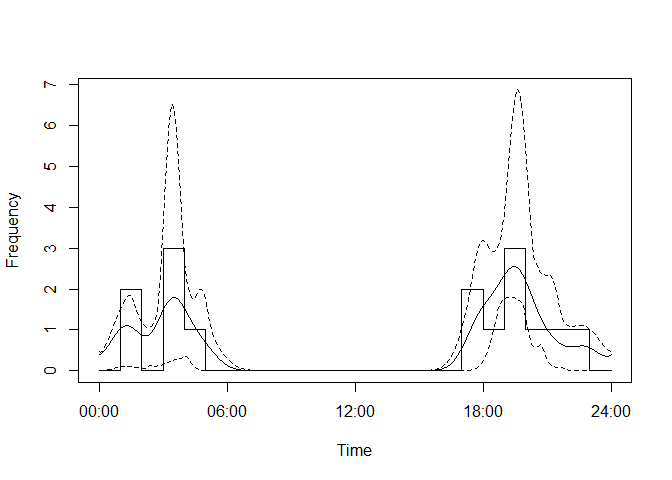
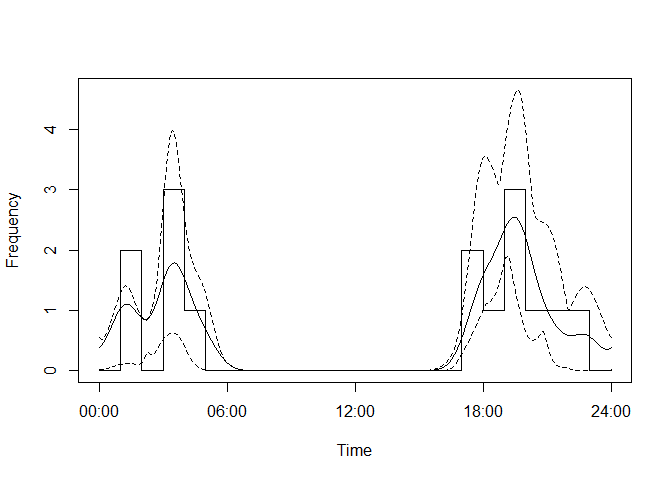
Update Readme to 1. show pak rather than devtools package intall; 2. access package data

diff --git a/README.md b/README.md
@@ -1,8 +1,3 @@
----
-output:
-  pdf_document: default
-  html_document: default
----
 camtrapDensity
 ================
 
@@ -60,8 +55,8 @@ packages when important updates are released from time to time:
 
 ``` r
 install.packages(c("devtools", "tidyverse"))
-devtools::install_github("inbo/camtraptor")
-devtools::install_github("MarcusRowcliffe/camtrapDensity")
+pak::pak("inbo/camtraptor")
+pak::pak("MarcusRowcliffe/camtrapDensity")
 ```
 
 ## Example usage
@@ -116,7 +111,8 @@ occurred.
 plot_deployment_schedule(pkg)
 ```
 
-![](README_files/figure-gfm/unnamed-chunk-5-1.png)<!-- -->
+<div class="plotly html-widget html-fill-item" id="htmlwidget-c1101d63a02aaa91b9e9" style="width:672px;height:480px;"></div>
+<script type="application/json" data-for="htmlwidget-c1101d63a02aaa91b9e9">{"x":{"data":[{"x":[1,1,1,1,3,3,2,2,2,4,4,4,4,4,4,4,4,4,4,4,4],"y":[1506967603,1506967603,1507007824,1507835504,1507806575,1508390591,1508821855,1509045090,1509214658,1507804655,1507841809,1507856923,1508036890,1508183309,1508267880,1508269801,1508642068,1508642068,1508711345,1508733482,1508892657],"text":["deploymentID: 0d620d0e-5da8-42e6-bcf2-56c11fb3d08e<br />timestamp: 2017-10-02 18:06:43","deploymentID: 0d620d0e-5da8-42e6-bcf2-56c11fb3d08e<br />timestamp: 2017-10-02 18:06:43","deploymentID: 0d620d0e-5da8-42e6-bcf2-56c11fb3d08e<br />timestamp: 2017-10-03 05:17:04","deploymentID: 0d620d0e-5da8-42e6-bcf2-56c11fb3d08e<br />timestamp: 2017-10-12 19:11:44","deploymentID: 6c920a31-cf07-496f-aa4f-846a428f450a<br />timestamp: 2017-10-12 11:09:35","deploymentID: 6c920a31-cf07-496f-aa4f-846a428f450a<br />timestamp: 2017-10-19 05:23:11","deploymentID: c95a566f-e75e-4e7b-a905-0479c8770da3<br />timestamp: 2017-10-24 05:10:55","deploymentID: c95a566f-e75e-4e7b-a905-0479c8770da3<br />timestamp: 2017-10-26 19:11:30","deploymentID: c95a566f-e75e-4e7b-a905-0479c8770da3<br />timestamp: 2017-10-28 18:17:38","deploymentID: d6d42e25-be43-4820-909d-708e42219a86<br />timestamp: 2017-10-12 10:37:35","deploymentID: d6d42e25-be43-4820-909d-708e42219a86<br />timestamp: 2017-10-12 20:56:49","deploymentID: d6d42e25-be43-4820-909d-708e42219a86<br />timestamp: 2017-10-13 01:08:43","deploymentID: d6d42e25-be43-4820-909d-708e42219a86<br />timestamp: 2017-10-15 03:08:10","deploymentID: d6d42e25-be43-4820-909d-708e42219a86<br />timestamp: 2017-10-16 19:48:29","deploymentID: d6d42e25-be43-4820-909d-708e42219a86<br />timestamp: 2017-10-17 19:18:00","deploymentID: d6d42e25-be43-4820-909d-708e42219a86<br />timestamp: 2017-10-17 19:50:01","deploymentID: d6d42e25-be43-4820-909d-708e42219a86<br />timestamp: 2017-10-22 03:14:28","deploymentID: d6d42e25-be43-4820-909d-708e42219a86<br />timestamp: 2017-10-22 03:14:28","deploymentID: d6d42e25-be43-4820-909d-708e42219a86<br />timestamp: 2017-10-22 22:29:05","deploymentID: d6d42e25-be43-4820-909d-708e42219a86<br />timestamp: 2017-10-23 04:38:02","deploymentID: d6d42e25-be43-4820-909d-708e42219a86<br />timestamp: 2017-10-25 00:50:57"],"type":"scatter","mode":"markers","marker":{"autocolorscale":false,"color":"rgba(238,154,73,1)","opacity":1,"size":5.6692913385826778,"symbol":"line-ew-open","line":{"width":1.8897637795275593,"color":"rgba(238,154,73,1)"}},"hoveron":"points","showlegend":false,"xaxis":"x","yaxis":"y","hoverinfo":"text","frame":null},{"x":[1,1,null,2,2,null,3,3,null,4,4],"y":[1506967603,1507835506,null,1508821855,1509214658,null,1507806575,1508390592,null,1507804655,1508892657],"text":["deploymentID: 0d620d0e-5da8-42e6-bcf2-56c11fb3d08e<br />start: 2017-10-02 18:06:43<br />deploymentID: 1<br />end: 1507835506","deploymentID: 0d620d0e-5da8-42e6-bcf2-56c11fb3d08e<br />start: 2017-10-02 18:06:43<br />deploymentID: 1<br />end: 1507835506",null,"deploymentID: c95a566f-e75e-4e7b-a905-0479c8770da3<br />start: 2017-10-24 05:10:55<br />deploymentID: 2<br />end: 1509214658","deploymentID: c95a566f-e75e-4e7b-a905-0479c8770da3<br />start: 2017-10-24 05:10:55<br />deploymentID: 2<br />end: 1509214658",null,"deploymentID: 6c920a31-cf07-496f-aa4f-846a428f450a<br />start: 2017-10-12 11:09:35<br />deploymentID: 3<br />end: 1508390592","deploymentID: 6c920a31-cf07-496f-aa4f-846a428f450a<br />start: 2017-10-12 11:09:35<br />deploymentID: 3<br />end: 1508390592",null,"deploymentID: d6d42e25-be43-4820-909d-708e42219a86<br />start: 2017-10-12 10:37:35<br />deploymentID: 4<br />end: 1508892657","deploymentID: d6d42e25-be43-4820-909d-708e42219a86<br />start: 2017-10-12 10:37:35<br />deploymentID: 4<br />end: 1508892657"],"type":"scatter","mode":"lines","line":{"width":1.8897637795275593,"color":"rgba(0,0,0,1)","dash":"solid"},"hoveron":"points","showlegend":false,"xaxis":"x","yaxis":"y","hoverinfo":"text","frame":null}],"layout":{"margin":{"t":23.305936073059364,"r":7.3059360730593621,"b":43.105022831050235,"l":84.018264840182667},"plot_bgcolor":"rgba(255,255,255,1)","paper_bgcolor":"rgba(255,255,255,1)","font":{"color":"rgba(0,0,0,1)","family":"","size":14.611872146118724},"xaxis":{"domain":[0,1],"automargin":true,"type":"linear","autorange":false,"range":[0.40000000000000002,4.5999999999999996],"tickmode":"array","ticktext":["S01","S02","S03","S03"],"tickvals":[1,2,3,4],"categoryorder":"array","categoryarray":["S01","S02","S03","S03"],"nticks":null,"ticks":"outside","tickcolor":"rgba(0,0,0,1)","ticklen":3.6529680365296811,"tickwidth":0.66417600664176002,"showticklabels":true,"tickfont":{"color":"rgba(0,0,0,1)","family":"","size":11.68949771689498},"tickangle":-90,"showline":true,"linecolor":"rgba(0,0,0,1)","linewidth":0.66417600664176002,"showgrid":false,"gridcolor":null,"gridwidth":0,"zeroline":false,"anchor":"y","title":{"text":"Location","font":{"color":"rgba(0,0,0,1)","family":"","size":14.611872146118724}},"hoverformat":".2f"},"yaxis":{"domain":[0,1],"automargin":true,"type":"linear","autorange":false,"range":[1506855250.25,1509327010.75],"tickmode":"array","ticktext":["2017/10/02","2017/10/09","2017/10/16","2017/10/23","2017/10/30"],"tickvals":[1506902400,1507507200,1508112000,1508716800,1509321600],"categoryorder":"array","categoryarray":["2017/10/02","2017/10/09","2017/10/16","2017/10/23","2017/10/30"],"nticks":null,"ticks":"outside","tickcolor":"rgba(0,0,0,1)","ticklen":3.6529680365296811,"tickwidth":0.66417600664176002,"showticklabels":true,"tickfont":{"color":"rgba(0,0,0,1)","family":"","size":11.68949771689498},"tickangle":-0,"showline":true,"linecolor":"rgba(0,0,0,1)","linewidth":0.66417600664176002,"showgrid":false,"gridcolor":null,"gridwidth":0,"zeroline":false,"anchor":"x","title":{"text":"timestamp","font":{"color":"rgba(0,0,0,1)","family":"","size":14.611872146118724}},"hoverformat":".2f"},"shapes":[],"showlegend":false,"legend":{"bgcolor":"rgba(255,255,255,1)","bordercolor":"transparent","borderwidth":1.8897637795275593,"font":{"color":"rgba(0,0,0,1)","family":"","size":11.68949771689498}},"hovermode":"closest","barmode":"relative"},"config":{"doubleClick":"reset","modeBarButtonsToAdd":["hoverclosest","hovercompare"],"showSendToCloud":false},"source":"A","attrs":{"b8063e96549":{"x":{},"y":{},"type":"scatter"},"b8012419bf":{"x":{},"y":{},"xend":{},"yend":{}}},"cur_data":"b8063e96549","visdat":{"b8063e96549":["function (y) ","x"],"b8012419bf":["function (y) ","x"]},"highlight":{"on":"plotly_click","persistent":false,"dynamic":false,"selectize":false,"opacityDim":0.20000000000000001,"selected":{"opacity":1},"debounce":0},"shinyEvents":["plotly_hover","plotly_click","plotly_selected","plotly_relayout","plotly_brushed","plotly_brushing","plotly_clickannotation","plotly_doubleclick","plotly_deselect","plotly_afterplot","plotly_sunburstclick"],"base_url":"https://plot.ly"},"evals":[],"jsHooks":[]}</script>
 
 ### Mapping deployments
 
@@ -126,7 +122,8 @@ You can create a map of deployments using this code:
 map_deployments(pkg)
 ```
 
-![](README_files/figure-gfm/unnamed-chunk-6-1.png)<!-- -->
+<div class="leaflet html-widget html-fill-item" id="htmlwidget-dcd12db9a5b9808e4435" style="width:672px;height:480px;"></div>
+<script type="application/json" data-for="htmlwidget-dcd12db9a5b9808e4435">{"x":{"options":{"crs":{"crsClass":"L.CRS.EPSG3857","code":null,"proj4def":null,"projectedBounds":null,"options":{}}},"calls":[{"method":"addProviderTiles","args":["OpenTopoMap",null,null,{"errorTileUrl":"","noWrap":false,"detectRetina":false}]},{"method":"addCircleMarkers","args":[[51.53643,51.53374,51.53459,51.53374],[-0.14977,-0.14986,-0.15389,-0.14986],10,null,null,{"interactive":true,"className":"","stroke":true,"color":"#03F","weight":5,"opacity":0.5,"fill":true,"fillColor":"#03F","fillOpacity":0.2},null,null,["S01","S03","S02","S03"],null,null,{"interactive":false,"permanent":false,"direction":"auto","opacity":1,"offset":[0,0],"textsize":"10px","textOnly":false,"className":"","sticky":true},null]}],"limits":{"lat":[51.53374,51.53643],"lng":[-0.15389,-0.14977]}},"evals":[],"jsHooks":[]}</script>
 
 You can plot the same map but with point diameter proportional to
 deployment-specific trap rate for a given species like this (use
@@ -136,7 +133,8 @@ scientific names):
 map_traprates(pkg, species="Vulpes vulpes")
 ```
 
-![](README_files/figure-gfm/unnamed-chunk-7-1.png)<!-- -->
+<div class="leaflet html-widget html-fill-item" id="htmlwidget-ac58a293544c858ac279" style="width:672px;height:480px;"></div>
+<script type="application/json" data-for="htmlwidget-ac58a293544c858ac279">{"x":{"options":{"crs":{"crsClass":"L.CRS.EPSG3857","code":null,"proj4def":null,"projectedBounds":null,"options":{}}},"calls":[{"method":"addProviderTiles","args":["OpenTopoMap",null,null,{"errorTileUrl":"","noWrap":false,"detectRetina":false}]},{"method":"addCircleMarkers","args":[[51.53643,51.53459,51.53374],[-0.14977,-0.15389,-0.14986],[15.71492943335834,21.72919402346724,25],null,null,{"interactive":true,"className":"","stroke":true,"color":["blue","blue","blue"],"weight":0,"opacity":0.5,"fill":true,"fillColor":["blue","blue","blue"],"fillOpacity":1},null,null,["S01: 29.9 (3 records)","S02: 44 (2 records)","S03: 51.7 (10 records)"],null,null,{"interactive":false,"permanent":false,"direction":"auto","opacity":1,"offset":[0,0],"textsize":"10px","textOnly":false,"className":"","sticky":true},null]},{"method":"addLegend","args":[{"colors":["red; width:6px; height:6px; border:0px solid red; border-radius:50%","blue; width:23.0298231481482px; height:23.0298231481482px; border:0px solid blue; border-radius:50%","blue; width:40.0596462962963px; height:40.0596462962963px; border:0px solid blue; border-radius:50%","blue; width:57.0894694444444px; height:57.0894694444444px; border:0px solid blue; border-radius:50%"],"labels":[0,20,40,60],"na_color":null,"na_label":"NA","opacity":1,"position":"topright","type":"unknown","title":"Records/100 days","extra":null,"layerId":null,"className":"info legend","group":null}]}],"limits":{"lat":[51.53374,51.53643],"lng":[-0.15389,-0.14977]}},"evals":[],"jsHooks":[]}</script>
 
 ### Subsetting deployments
 
@@ -327,14 +325,14 @@ compenent name to the result object spearated with a \$ sign, like this:
 res_vul$estimates
 ```
 
-    ##                  estimate         se         cv       lcl95      ucl95  n
-    ## radius          4.6552400 0.35422329 0.07609131  3.96096233  5.3495176 14
-    ## angle          44.9831275 9.42829597 0.20959628 26.50366740 63.4625876 15
-    ## active_speed    1.3414083 0.60283473 0.44940435  0.15985224  2.5229644  6
-    ## activity_level  0.2451959 0.08110215 0.33076471  0.08623568  0.4041561 15
-    ## overall_speed   7.8937874 4.40477269 0.55800498 -0.73956710 16.5271418 NA
-    ## trap_rate       0.4124492 0.08184820 0.19844434  0.28421515  0.4805953  3
-    ## density        12.6605171 7.59663220 0.60002543  4.27003937 37.5379897 NA
+    ##                  estimate          se        cv      lcl95      ucl95  n
+    ## radius          4.1783732  0.88573571 0.2119810  2.4423312  5.9144152  4
+    ## angle          44.4312270 11.28197392 0.2539199 22.3185581 66.5438959  5
+    ## active_speed    3.0792649  0.76463024 0.2483158  1.5805896  4.5779401  4
+    ## activity_level  0.2451959  0.03668991 0.1496351  0.1732837  0.3171081 15
+    ## overall_speed  18.1205531  5.25344249 0.2899162  7.8238058 28.4173004 NA
+    ## trap_rate       0.3535279  0.04529400 0.1281200  0.2510017  0.3900774  3
+    ## density         5.2851597  2.04990211 0.3878600  2.5375110 11.0079972 NA
     ##                   unit
     ## radius               m
     ## angle           degree
@@ -447,18 +445,3 @@ options, run the function name preceded by a question mark, e.g.
 ``` r
 ?rem_estimate
 ```
-
-## Deterministic seeding
-
-To make analyses reproducible, several functions that perform random
-operations accept a `seed` argument. By default the package uses a
-fixed seed of 42 so repeated analyses produce identical results unless
-you explicitly set a different seed. The following functions accept a
-`seed` argument (default 42): `rem_estimate`, `get_parameter_table`,
-`get_trap_rate`, and `fit_actmodel`.
-
-If you pass `seed = NULL` the function will not change the global RNG
-state and randomness will behave as usual. The package sets the seed
-only locally while performing internal sampling, and restores the
-previous RNG state on exit so your global RNG is not changed by these
-functions.
